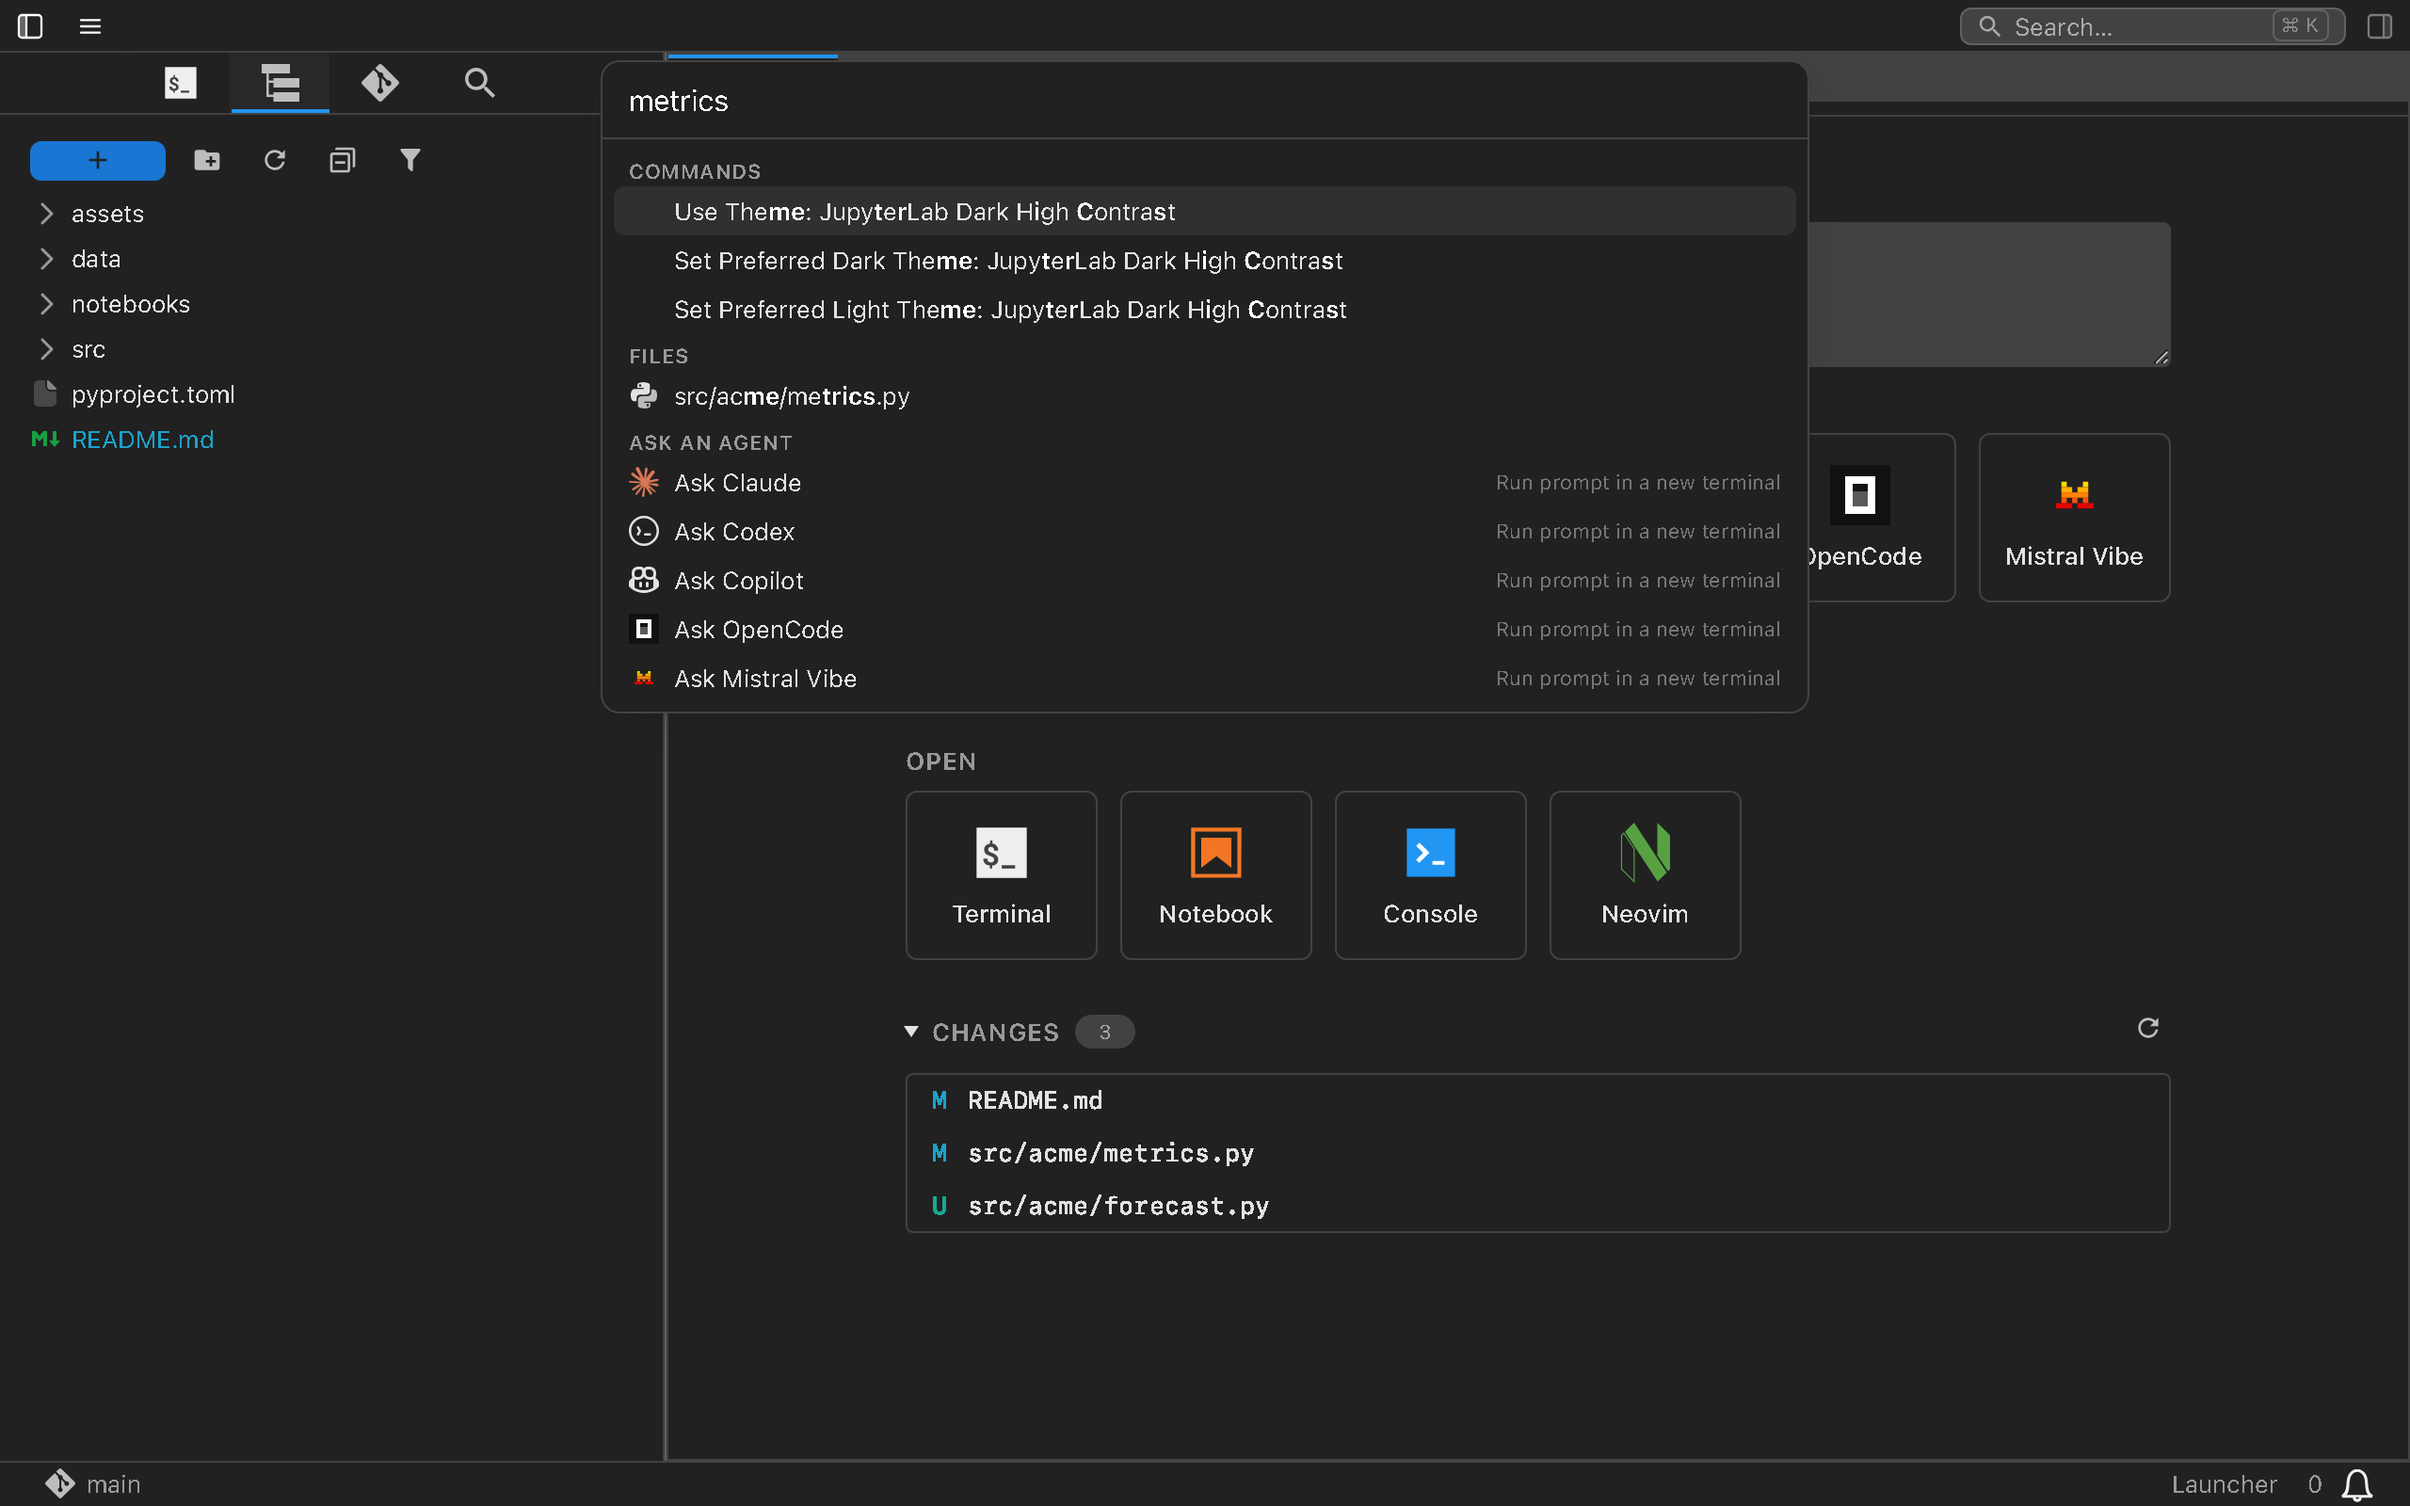
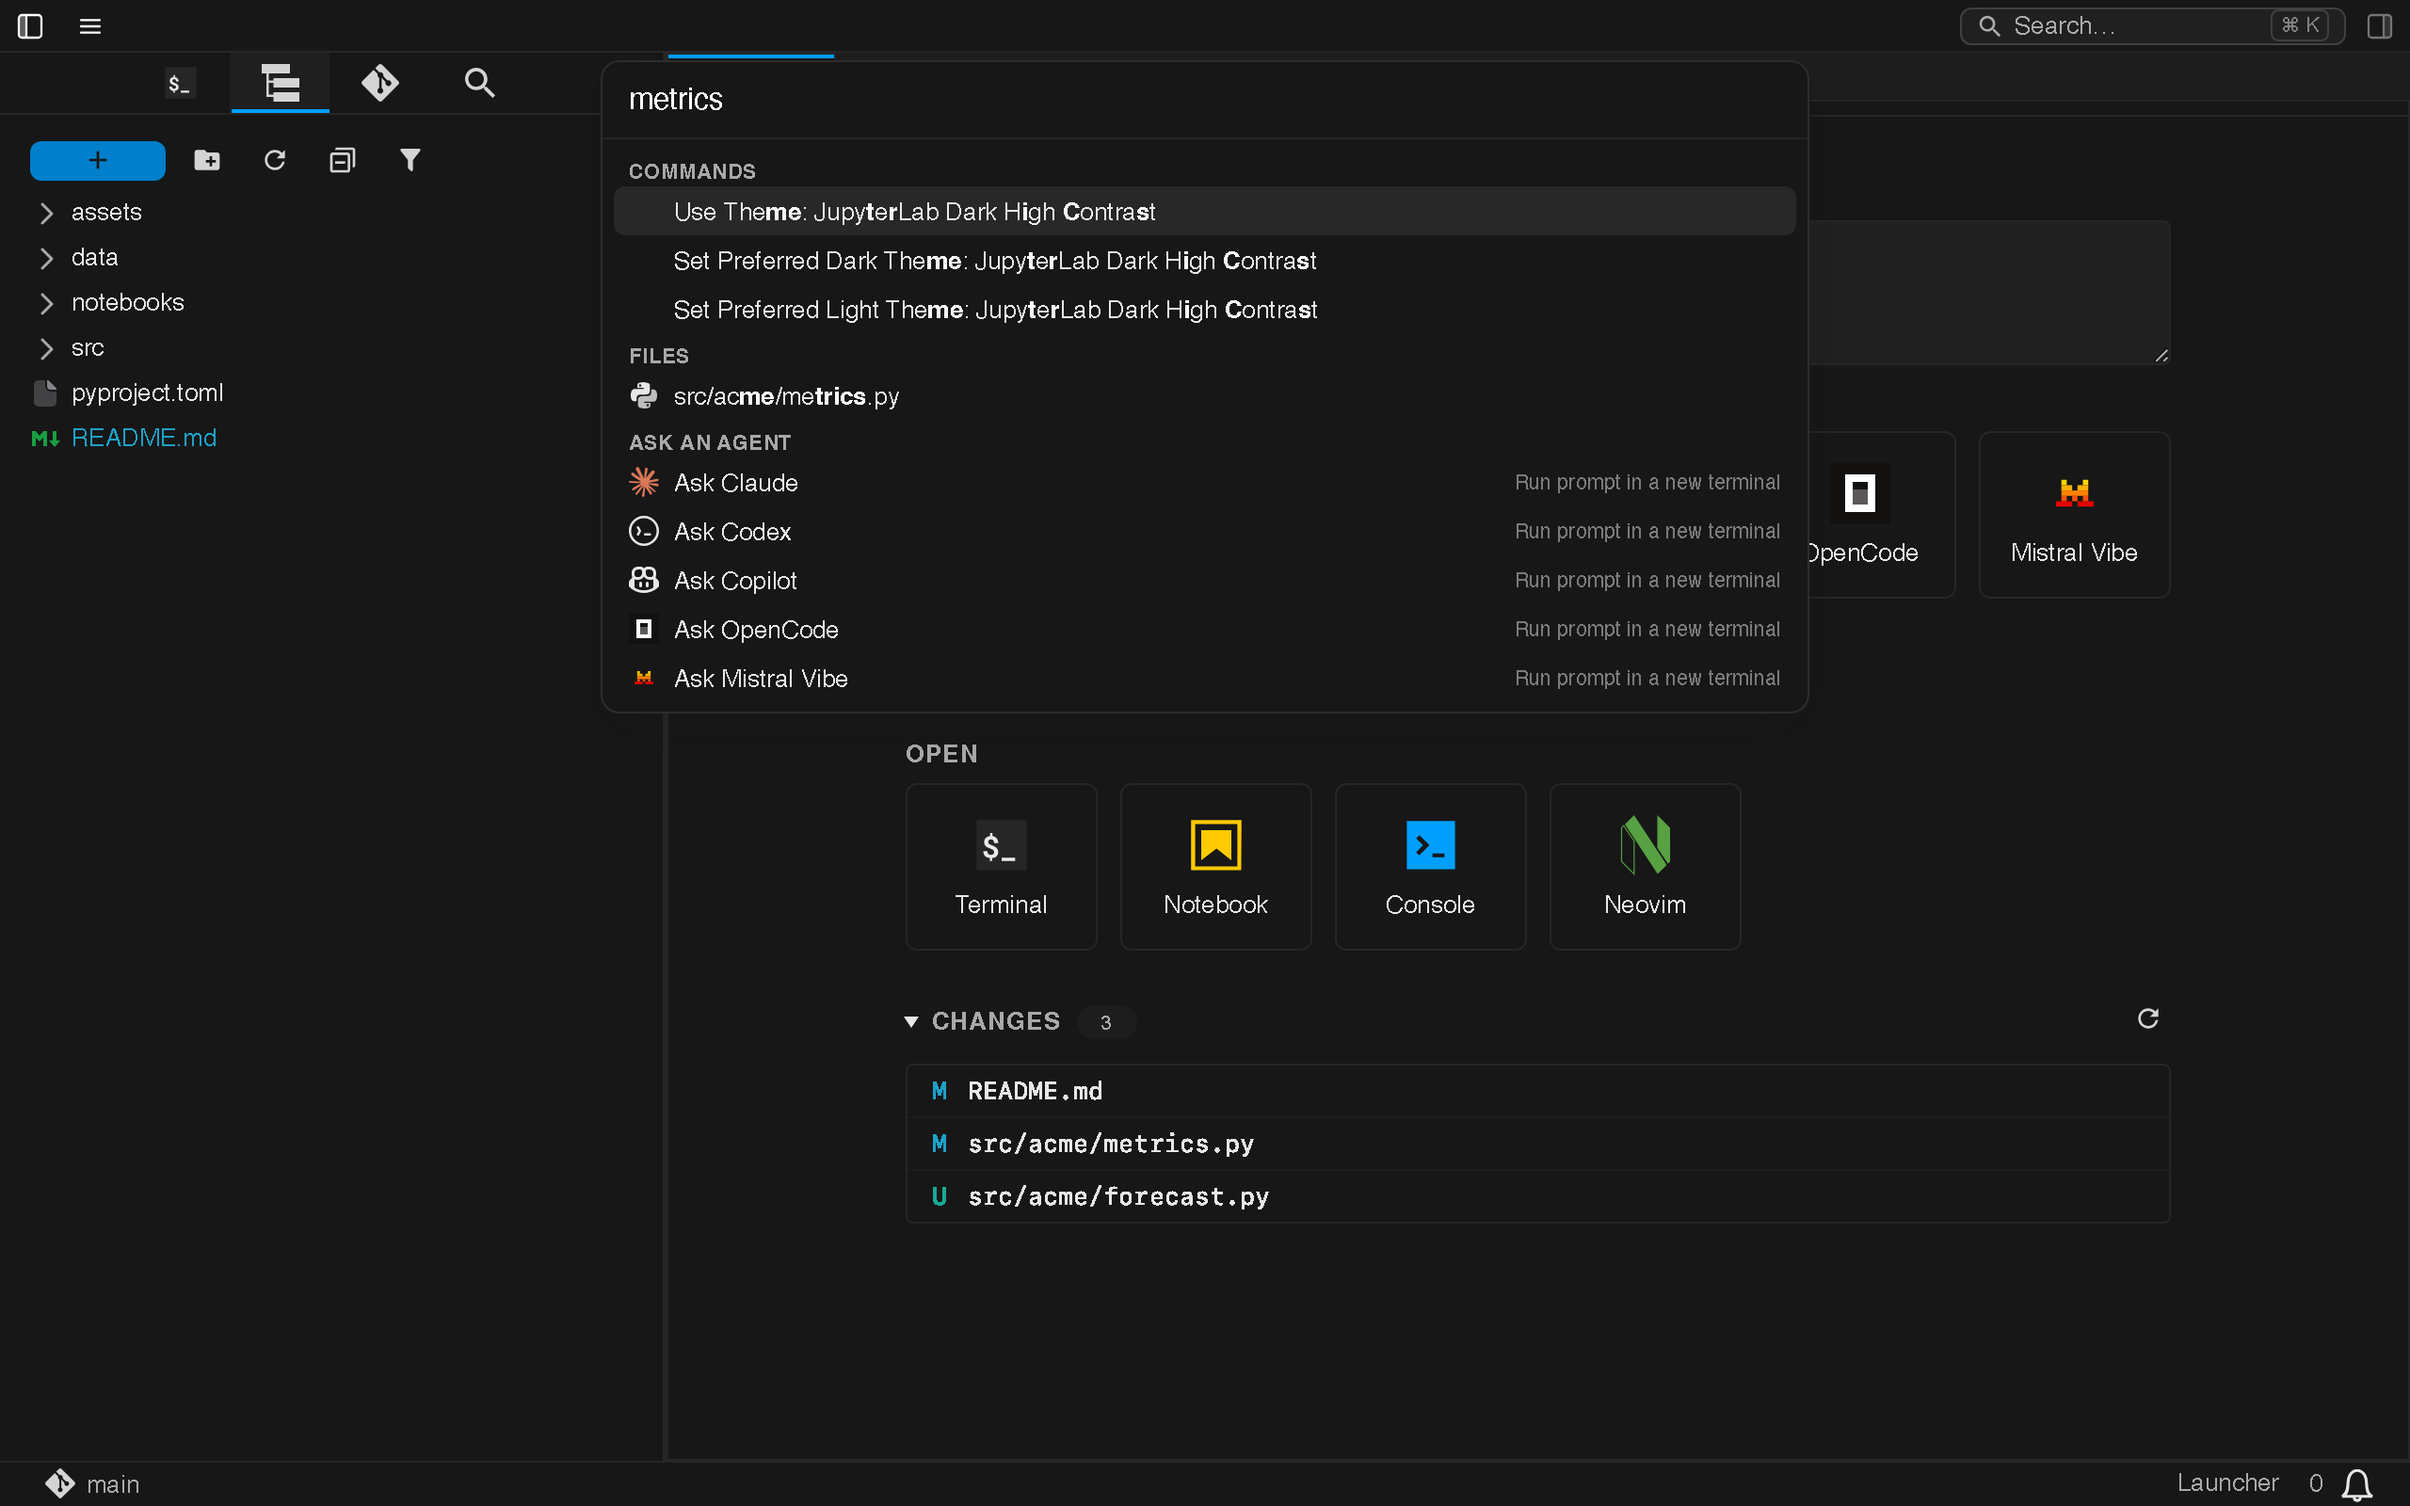
Generate documentation screenshots with the Pierre Dark theme

diff --git a/ui-tests/screenshots.spec.ts b/ui-tests/screenshots.spec.ts
@@ -29,7 +29,7 @@ test.use({
   // defaults apply); these overrides are layered on top, in memory only.
   // The sidebar tabs are trimmed to the ones the screenshots are about.
   mockSettings: {
-    '@jupyterlab/apputils-extension:themes': { theme: 'JupyterLab Dark' },
+    '@jupyterlab/apputils-extension:themes': { theme: 'Pierre Dark' },
     'xtralab:sidebar': {
       showDefaultFileBrowser: false,
       showRunningSessions: false
@@ -43,7 +43,7 @@ test.beforeAll(() => {
 
 async function ready(page: IJupyterLabPageFixture): Promise<void> {
   await page.goto();
-  await page.waitForSelector('body[data-jp-theme-name="JupyterLab Dark"]', {
+  await page.waitForSelector('body[data-jp-theme-name="Pierre Dark"]', {
     state: 'attached'
   });
   // Hiding the default file browser can leave the sidebar stack without a

diff --git a/ui-tests/README.md b/ui-tests/README.md
@@ -25,7 +25,7 @@ pnpm screenshots
 ```
 
 Playwright starts the server itself (port 8899) with an isolated Jupyter
-config, forces the JupyterLab Dark theme in memory, and shuts everything down
+config, forces the Pierre Dark theme in memory, and shuts everything down
 afterwards.
 
 ## What is not regenerated
